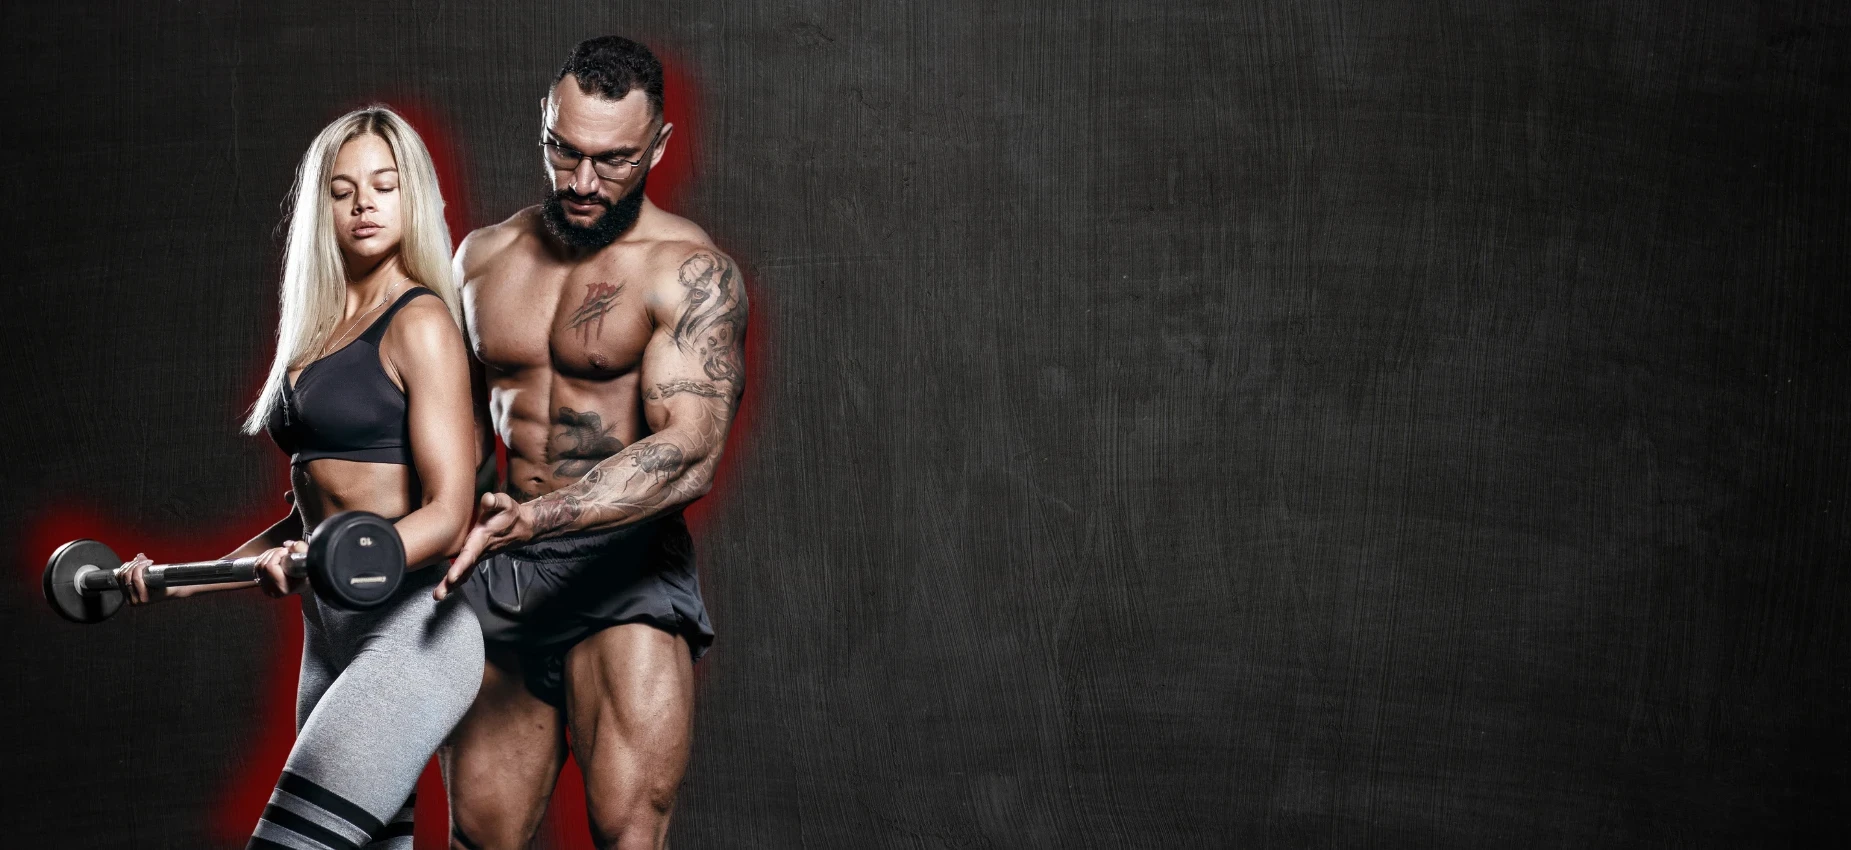
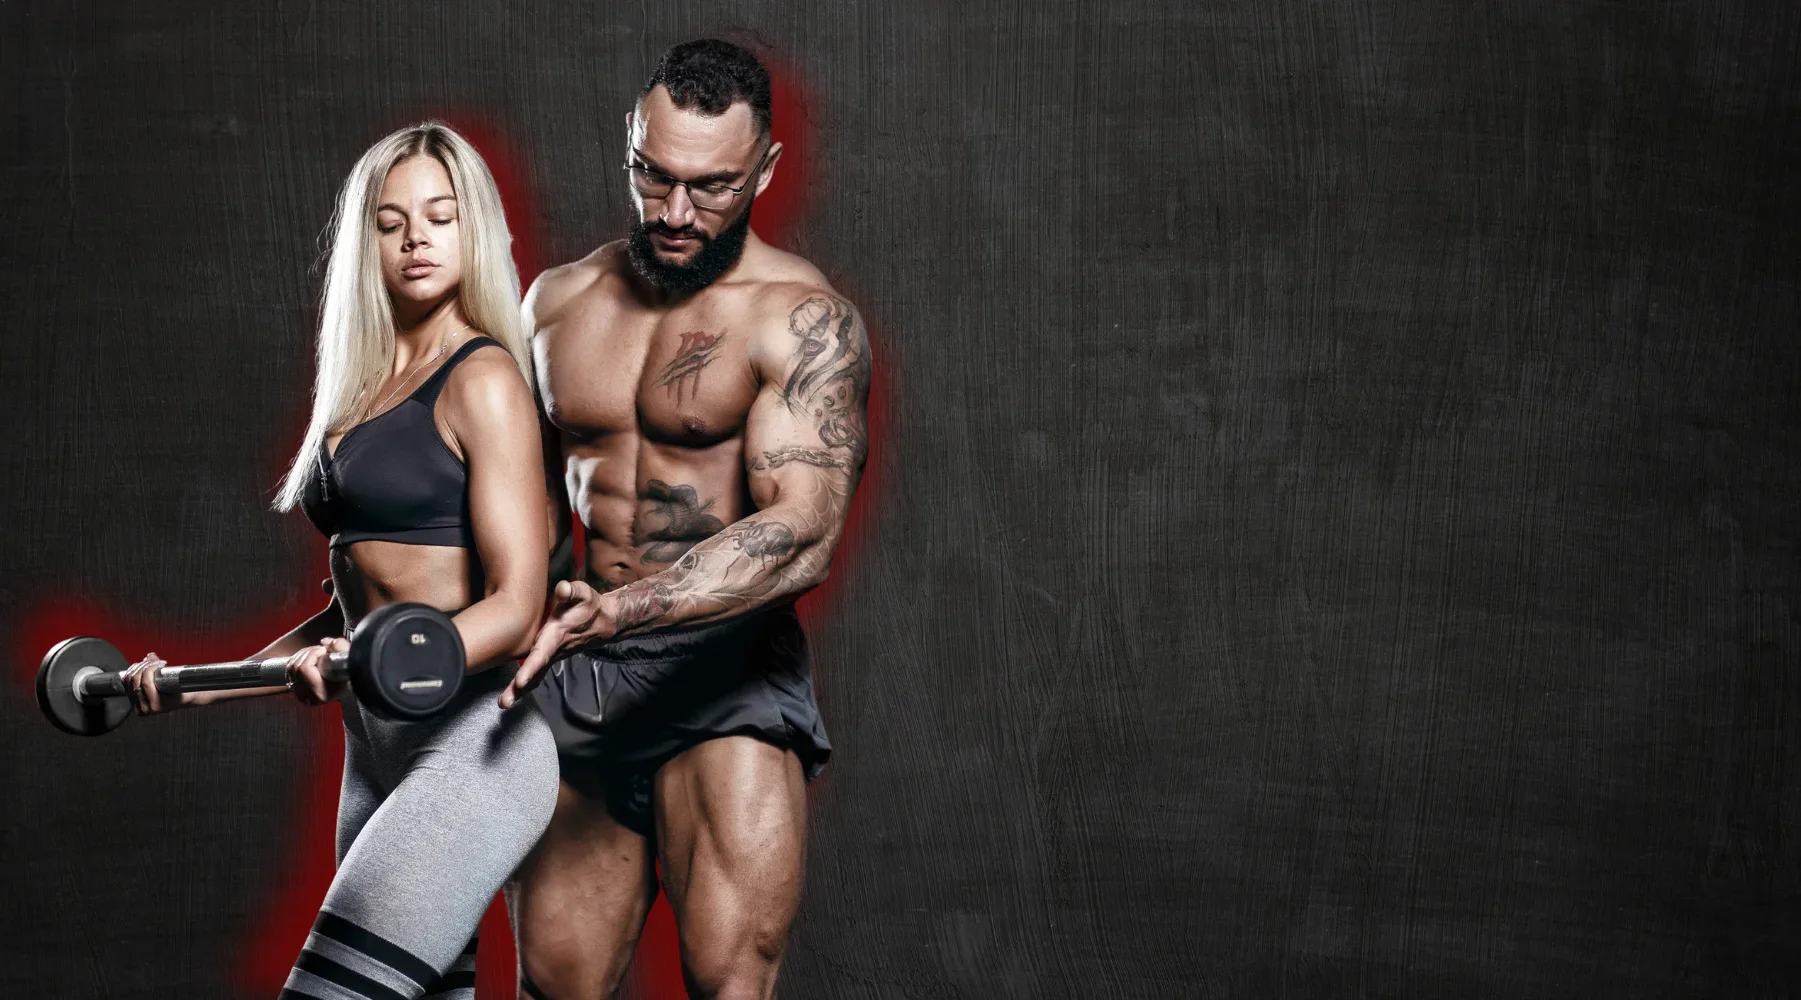
new backgrounds

Changed region(s): [[0.0, 0.0306, 0.4975, 1.0]]

diff --git a/static/css/site.css b/static/css/site.css
@@ -67,6 +67,7 @@ p {
     font-family: Helvetica, Arial, sans-serif;
     font-size: 2rem;
     margin-bottom: 0.6rem !important;
+    text-shadow: 2px 2px black;
 }
 
 @media (min-width: 1700px) {
@@ -286,7 +287,7 @@ section h3 {
     background: url("/img/intro.webp");
     background-size: cover;
     background-repeat: no-repeat;
-    background-position: left;
+    background-position: top;
 }
 
 #intro .text-block p, #coaching .text-block p{
@@ -306,7 +307,7 @@ section h3 {
     background: url("/img/coaching.webp");
     background-size: cover;
     background-repeat: no-repeat;
-    background-position: right;
+    background-position: top;
 }
 
 
@@ -343,7 +344,7 @@ section h3 {
     margin-bottom: 0;
     position: relative;
     text-align: center;
-    width: 60%
+    width: 52%
 }
 
 #youtube .side-block{
@@ -426,7 +427,7 @@ section h3 {
 }
 
 #coaching .side-block {
-    left: calc(100% - 60%);
+    left: calc(100% - 52% - 1%);
 }
 
 .deck-images {
@@ -503,7 +504,7 @@ a:hover .video-img {
         display: none
     }
 }
-
+/* phone main */
 @media (max-width:768px) {
     h2 {
         font-size: 7vw;
@@ -512,6 +513,20 @@ a:hover .video-img {
     .action-block p,  .action-block a{
         font-size: 5vw;
     }
+    
+    #intro {
+        background: url("/img/intro_phone.webp");
+        background-size: cover;
+        background-position: top;
+        padding-bottom: 115vw !important;
+    }    
+
+    #coaching {
+        background: url("/img/coaching_phone.webp");
+        background-size: cover;
+        background-position: top;
+        padding-bottom: 105vw !important;
+    } 
 
     #intro .side-block, #coaching .side-block, #youtube .side-block{
         width: 90%;
@@ -1364,4 +1379,28 @@ iframe {
     width: 100%;
     height: auto;
     aspect-ratio: 16/9;
+}
+.brushed1, .brushed2, .brushed3 {
+    background-size: 100% 180%;
+    background-position: center;
+    background-repeat: no-repeat;
+}
+.brushed1 {
+    background-image: url("/img/brushes/brush1.webp");
+}
+
+.brushed2 {
+    background-image: url("/img/brushes/brush2.webp");
+}
+
+.brushed3 {
+    background-image: url("/img/brushes/brush3.webp");
+}
+
+.fogged{
+    text-shadow: 0px 0px 70px #bfbfbf;
+}
+
+.red-shadow {
+    text-shadow: 3px 3px #400;
 }
